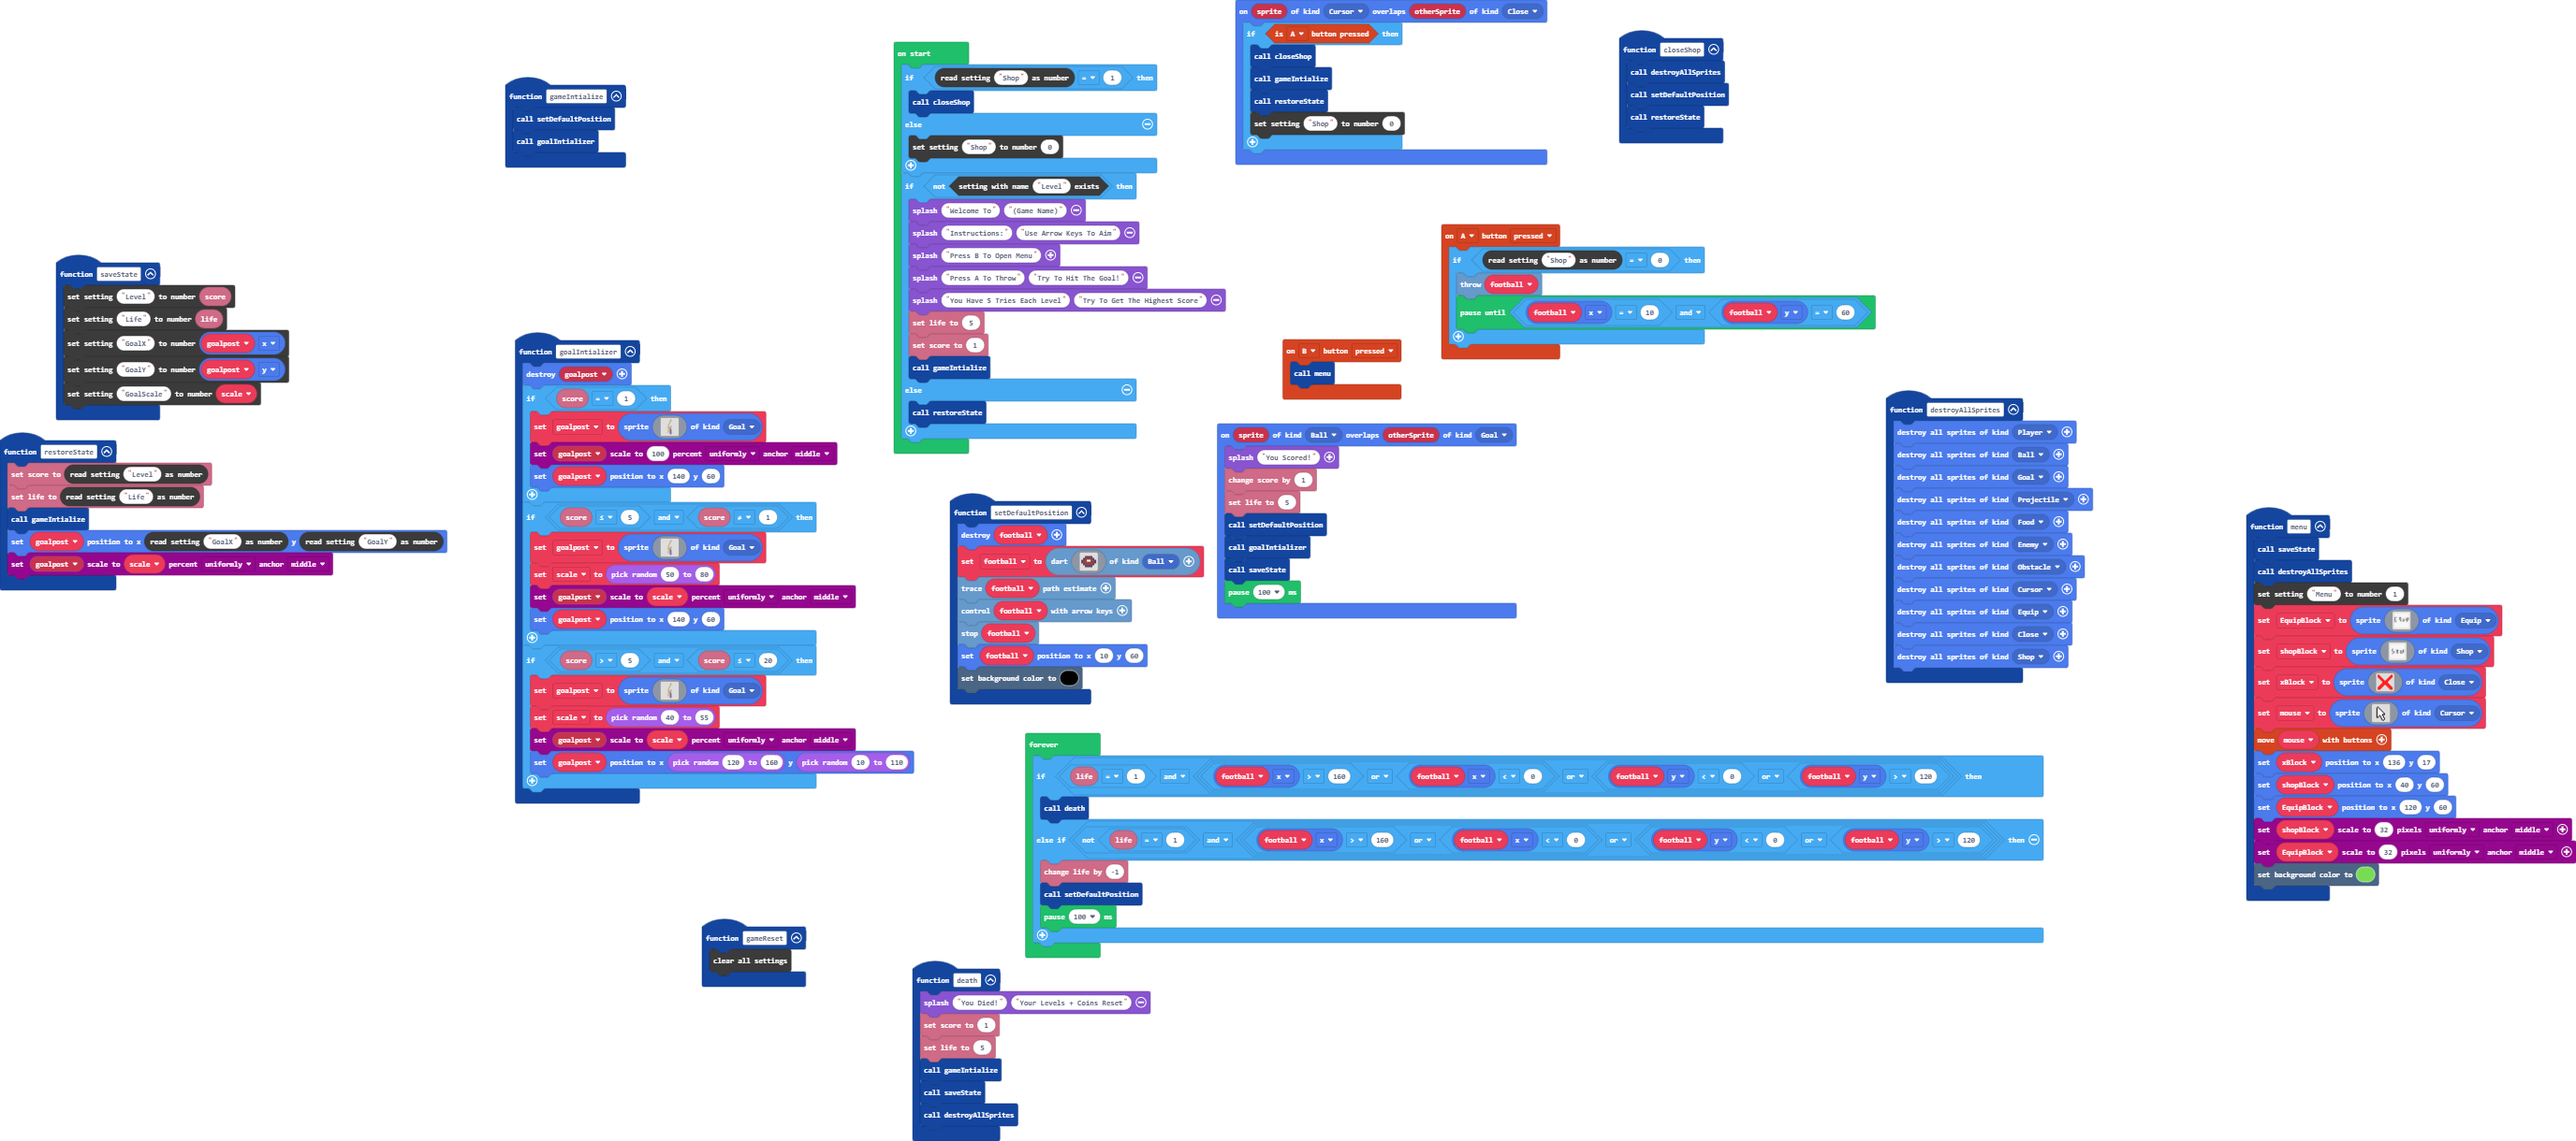
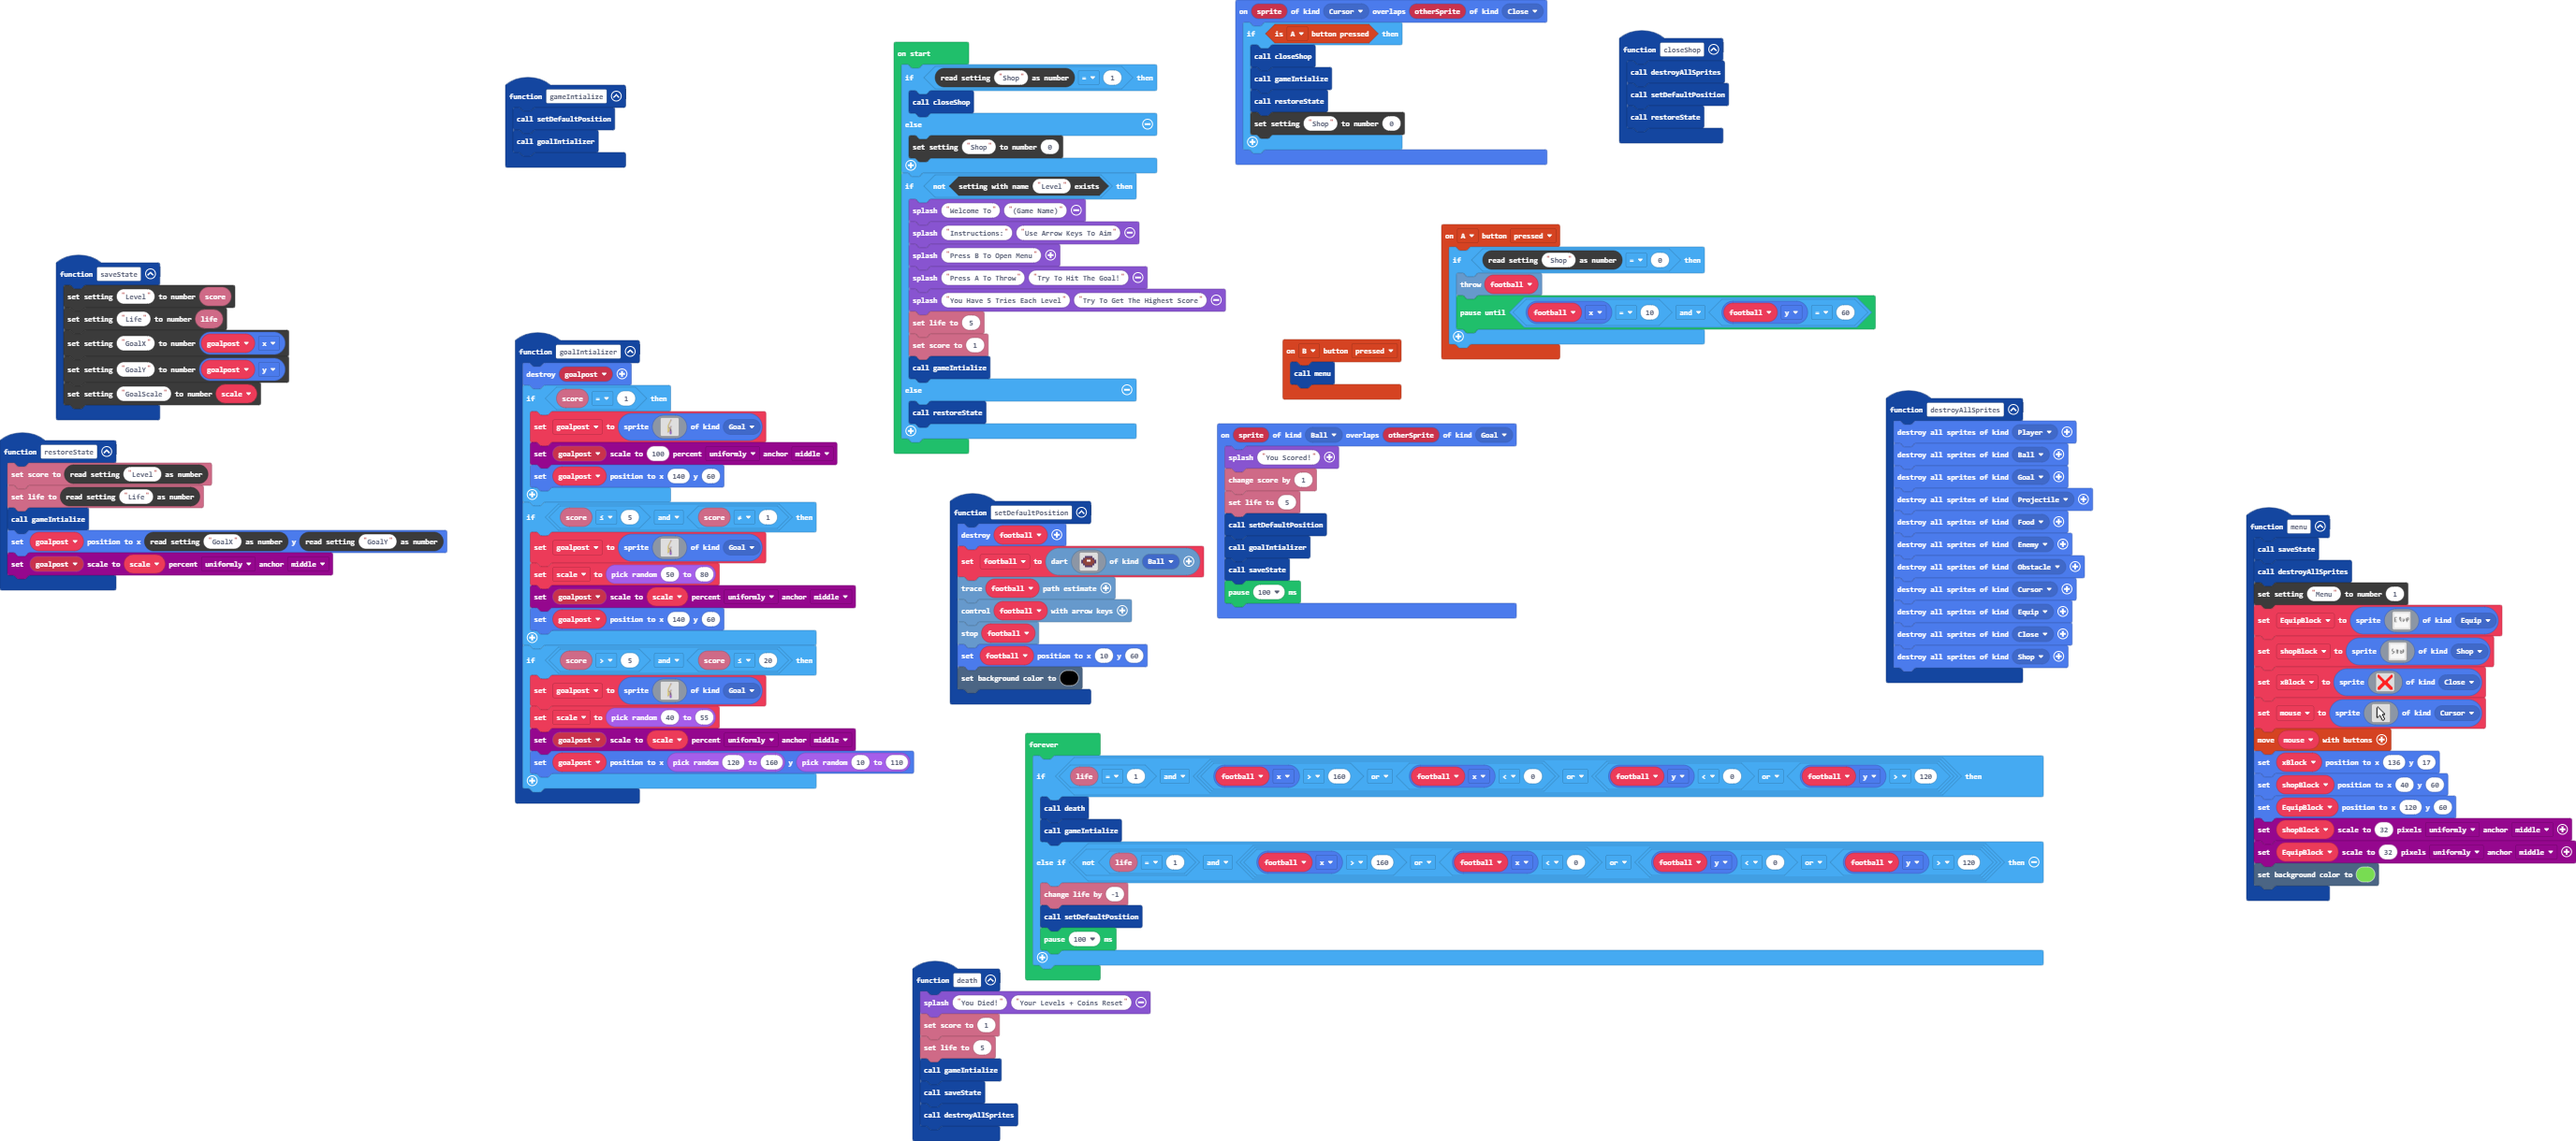
Update main.blocks, main.ts

Changed region(s): [[0.375, 0.7164, 0.8125, 0.8721], [0.25, 0.8098, 0.3125, 0.8721]]

diff --git a/main.ts b/main.ts
@@ -52,9 +52,6 @@ function closeShop () {
     setDefaultPosition()
     restoreState()
 }
-function gameReset () {
-    blockSettings.clear()
-}
 function death () {
     game.splash("You Died!", "Your Levels + Coins Reset")
     info.setScore(1)
@@ -347,6 +344,7 @@ if (!(blockSettings.exists("Level"))) {
 forever(function () {
     if (info.life() == 1 && (football.x > 160 || football.x < 0 || (football.y < 0 || football.y > 120))) {
         death()
+        gameIntialize()
     } else if (!(info.life() == 1) && (football.x > 160 || football.x < 0 || (football.y < 0 || football.y > 120))) {
         info.changeLifeBy(-1)
         setDefaultPosition()
